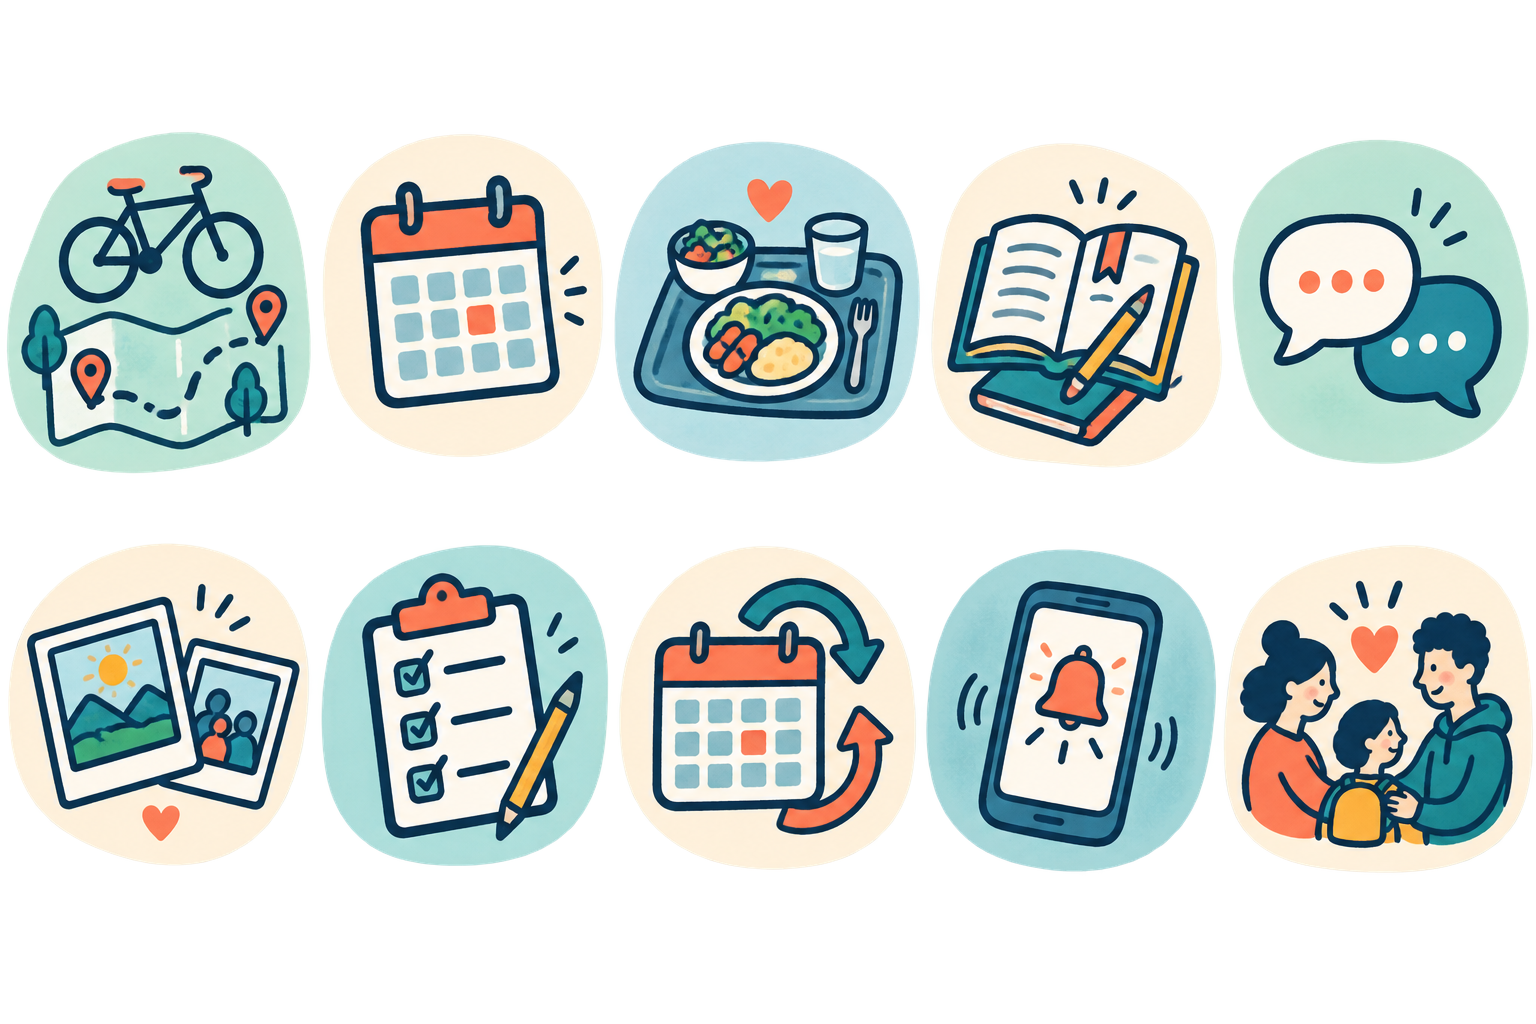
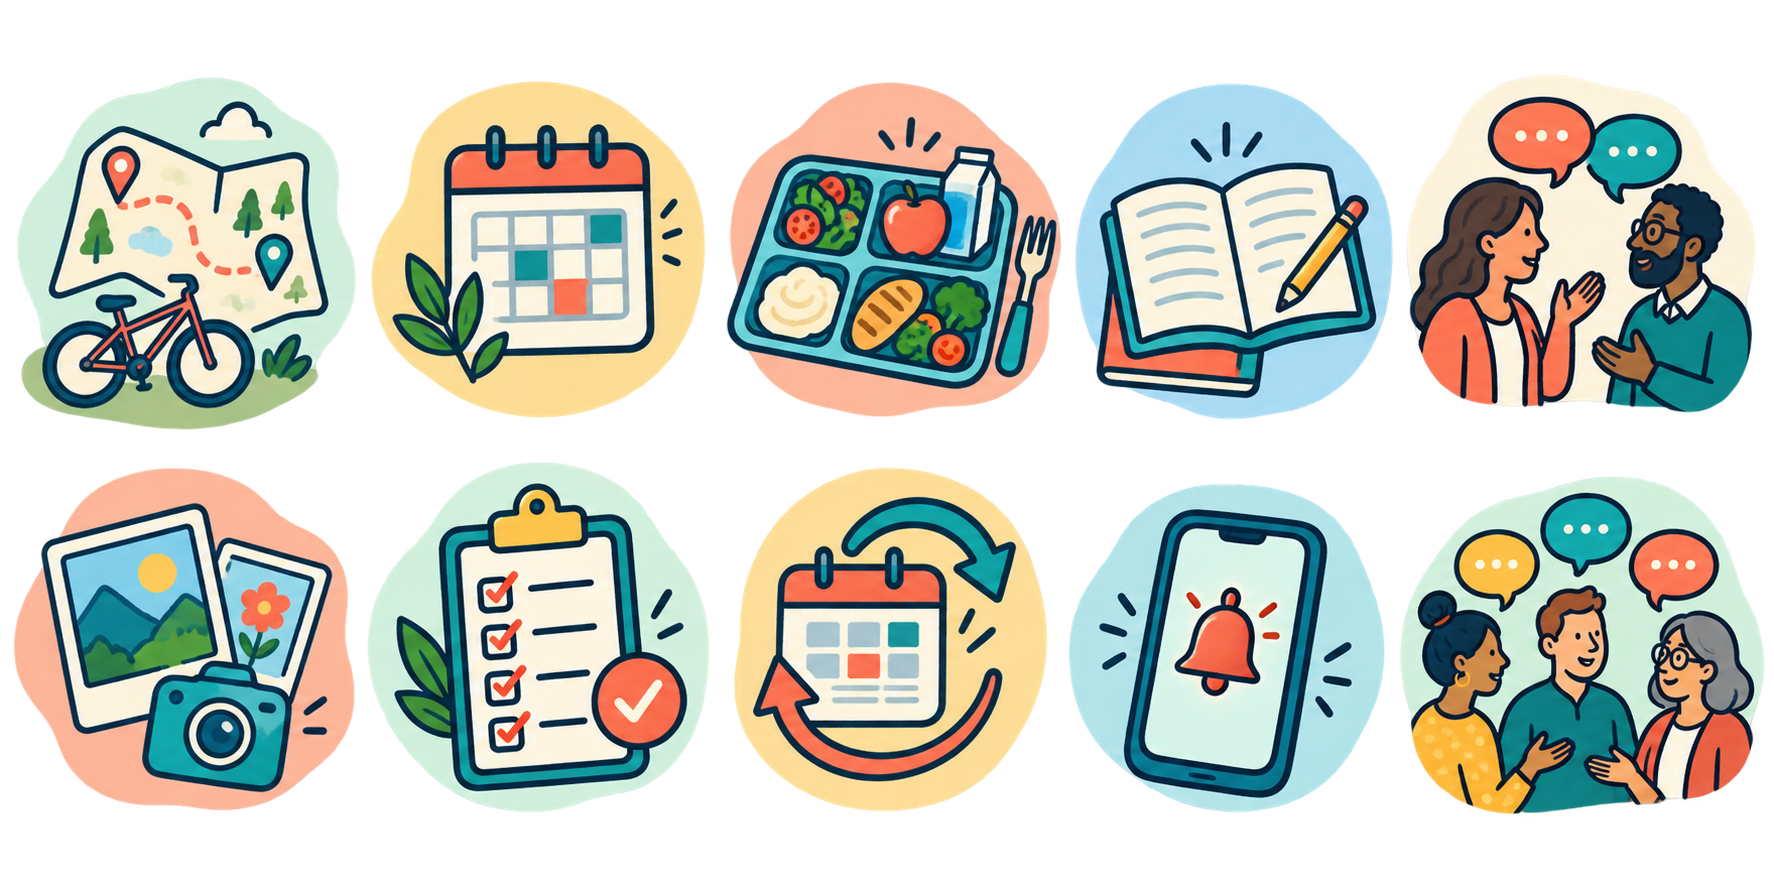
feat: print invitation code below flyer QR

diff --git a/app/src/klasse5e/core/management/commands/create_family_handouts.py b/app/src/klasse5e/core/management/commands/create_family_handouts.py
@@ -37,7 +37,7 @@ class Command(BaseCommand):
                 created_by=admin,
             )
             url = f"{settings.WAGTAILADMIN_BASE_URL.rstrip('/')}/familie/start/{token}/"
-            invitations.append((item, url))
+            invitations.append((item, url, token))
         output = Path(options["output"]).resolve()
         output.parent.mkdir(parents=True, exist_ok=True)
         self._build_pdf(output, school_class, invitations)
@@ -48,7 +48,7 @@ class Command(BaseCommand):
         width, height = A5
         pdf = canvas.Canvas(str(output), pagesize=A5, pageCompression=1)
         pdf.setTitle(f"KlassID Familien-Einladungen {school_class.display_name}")
-        for item, url in invitations:
+        for item, url, token in invitations:
             navy, teal, pale, coral = map(
                 HexColor, ("#102D3B", "#35A4C6", "#EAF7FB", "#FF786C")
             )
@@ -83,6 +83,10 @@ class Command(BaseCommand):
             pdf.setFillColor(navy)
             pdf.setFont("Helvetica-Bold", 12)
             pdf.drawCentredString(width / 2, qr_y - 27, "SCANNEN UND FAMILIE ANLEGEN")
+            pdf.setFont("Helvetica-Bold", 8.5)
+            pdf.drawCentredString(width / 2, qr_y - 43, "Einladungscode")
+            pdf.setFont("Courier-Bold", 8)
+            pdf.drawCentredString(width / 2, qr_y - 56, token)
 
             icon_path = Path(settings.BASE_DIR) / "static" / "branding" / "flyer-icons.png"
             if icon_path.is_file():
